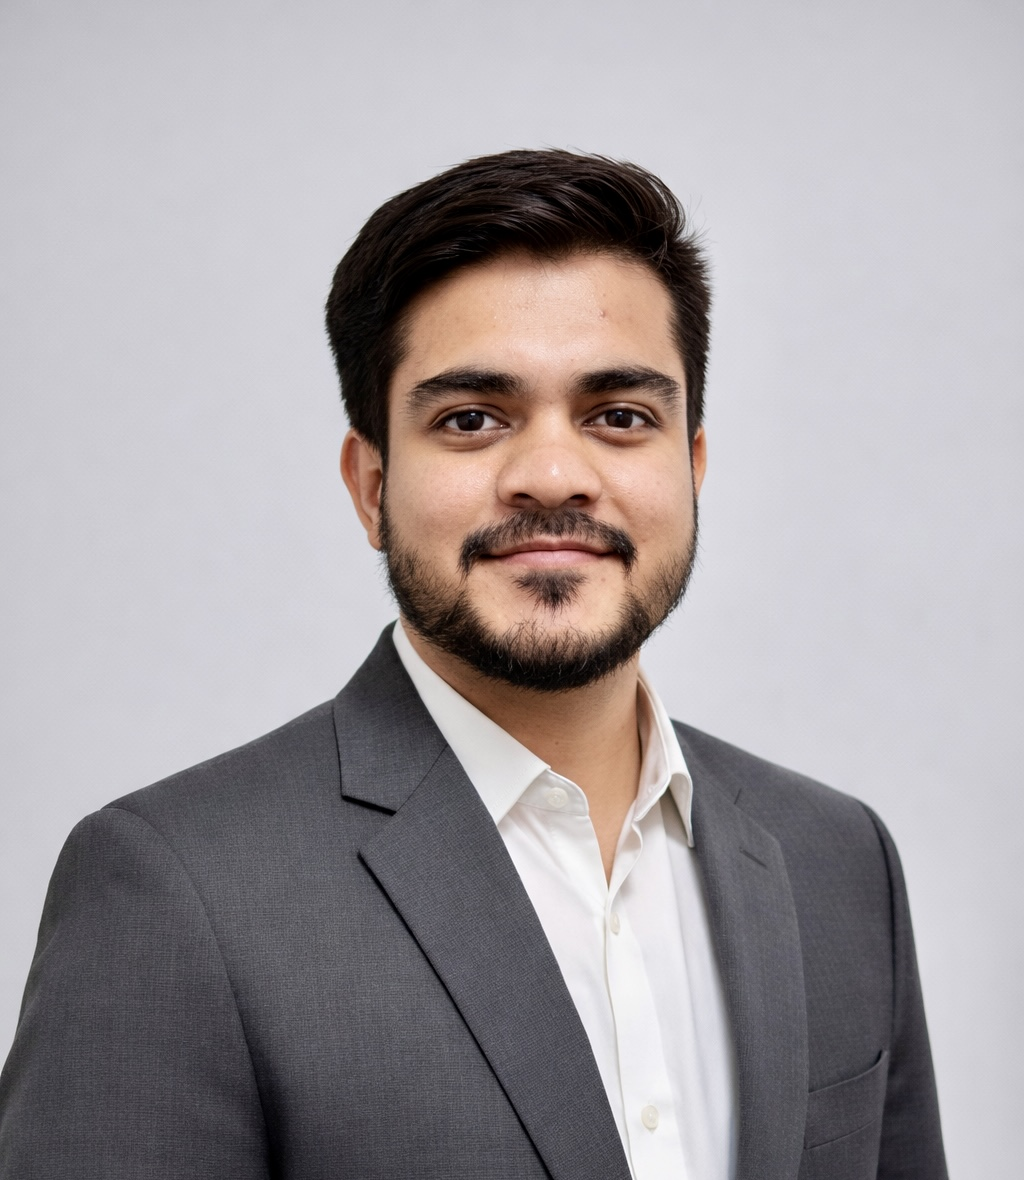
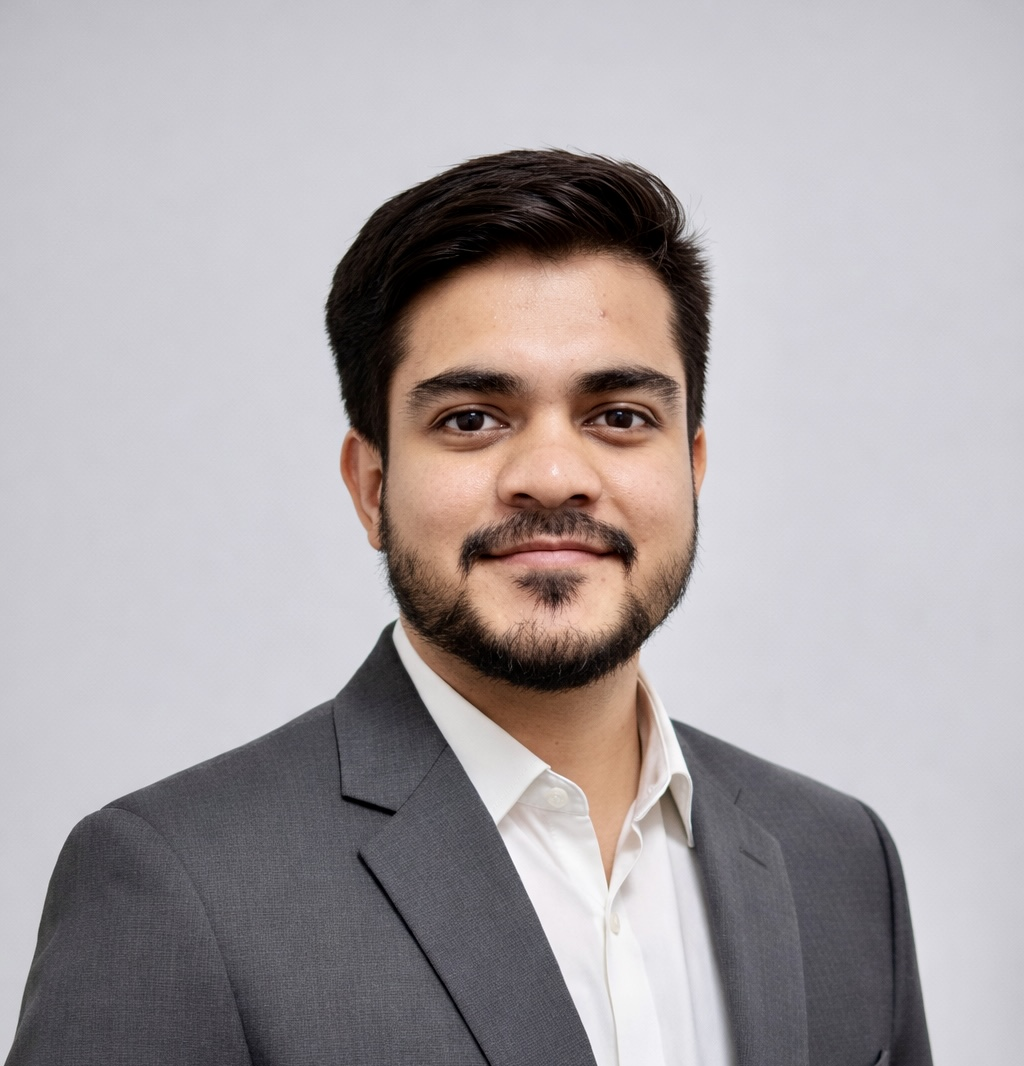
Added mayank sir photo

diff --git a/deptweb/src/app/faculty/page.js b/deptweb/src/app/faculty/page.js
@@ -21,8 +21,8 @@ export default function FacultyPage() {
         { id: 12, name: "Mr. Thammali Gangadhar", position: "Assistant Professor", branch: "CSE(AI&ML)", degree: "M.Tech.", university: "DTU, New Delhi", image: "/cse-ai-assets/images/Dean's photo.JPG" },
         { id: 13, name: "Ms. Nidhi Singh", position: "Assistant Professor", branch: "CSE(AI&ML)", degree: "M.Tech.", university: "UPTU, Lucknow", image: "/cse-ai-assets/images/Dean's photo.JPG" },
         { id: 14, name: "Mr. Tanmoy Das", position: "Assistant Professor", branch: "CSE(AI&ML)", degree: "M.Tech.", university: "DTU, New Delhi", image: "/cse-ai-assets/images/Dean's photo.JPG" },
-        { id: 15, name: "Mr. Rachit Patel", position: "Assistant Professor", branch: "CSE(AI&ML)", degree: "M.Tech.", university: "DTU, New Delhi", image: "/cse-ai-assets/images/Dean's photo.JPG" },
-        { id: 16, name: "Mr. Mayank Lakhotia", position: "Assistant Professor & Program Head (First Year)", branch: "CSE(AI&ML)", degree: "M.Tech.", university: "NSUT, New Delhi", image: "/cse-ai-assets/images/Mayank_Lakhotia.png" },
+        { id: 15, name: "Mr. Rachit Patel", position: "Assistant Professor", branch: "CSE(AI&ML)", degree: "M.Tech.", university: "DTU, New Delhi", image: "/cse-ai-assets/images/Mayank_Lakhotia.PNG" },
+        { id: 16, name: "Mr. Mayank Lakhotia", position: "Assistant Professor & Program Head (First Year)", branch: "CSE(AI&ML)", degree: "M.Tech.", university: "NSUT, New Delhi", image: "/cse-ai-assets/images/Mayank-Lakhotia.PNG" },
         { id: 17, name: "Mr. Abhishek Shukla", position: "Assistant Professor", branch: "CSE(AI&ML)", degree: "M.Tech.", university: "DTU, New Delhi", image: "/cse-ai-assets/images/Dean's photo.JPG" },
         { id: 18, name: "Ms. Surbhi Verma", position: "Assistant Professor", branch: "CSE(AI&ML)", degree: "M.Tech.", university: "Shobhit University, Meerut", image: "/cse-ai-assets/images/Dean's photo.JPG" },
         { id: 19, name: "Mr. Sundeep Raj", position: "Assistant Professor", branch: "CSE(AI&ML)", degree: "M.Tech.", university: "GGSIPU, New Delhi", image: "/cse-ai-assets/images/Dean's photo.JPG" },

diff --git a/deptweb/src/components/home/faculty.jsx b/deptweb/src/components/home/faculty.jsx
@@ -25,7 +25,7 @@ export default function Faculty() {
         { id: 13, name: "Ms. Nidhi Singh", position: "Assistant Professor", branch: "CSE(AI&ML)", degree: "M.Tech.", university: "UPTU, Lucknow", image: "/cse-ai-assets/images/Dean's photo.JPG" },
         { id: 14, name: "Mr. Tanmoy Das", position: "Assistant Professor", branch: "CSE(AI&ML)", degree: "M.Tech.", university: "DTU, New Delhi", image: "/cse-ai-assets/images/Dean's photo.JPG" },
         { id: 15, name: "Mr. Rachit Patel", position: "Assistant Professor", branch: "CSE(AI&ML)", degree: "M.Tech.", university: "DTU, New Delhi", image: "/cse-ai-assets/images/Dean's photo.JPG" },
-        { id: 16, name: "Mr. Mayank Lakhotia", position: "Assistant Professor & Program Head (First Year)", branch: "CSE(AI&ML)", degree: "M.Tech.", university: "NSUT, New Delhi", image: "/cse-ai-assets/images/Dean's photo.JPG" },
+        { id: 16, name: "Mr. Mayank Lakhotia", position: "Assistant Professor & Program Head (First Year)", branch: "CSE(AI&ML)", degree: "M.Tech.", university: "NSUT, New Delhi", image: "/cse-ai-assets/images/Mayank_Lakhotia.PNG" },
         { id: 17, name: "Mr. Abhishek Shukla", position: "Assistant Professor", branch: "CSE(AI&ML)", degree: "M.Tech.", university: "DTU, New Delhi", image: "/cse-ai-assets/images/Dean's photo.JPG" },
         { id: 18, name: "Ms. Surbhi Verma", position: "Assistant Professor", branch: "CSE(AI&ML)", degree: "M.Tech.", university: "Shobhit University, Meerut", image: "/cse-ai-assets/images/Dean's photo.JPG" },
         { id: 19, name: "Mr. Sundeep Raj", position: "Assistant Professor", branch: "CSE(AI&ML)", degree: "M.Tech.", university: "GGSIPU, New Delhi", image: "/cse-ai-assets/images/Dean's photo.JPG" },
